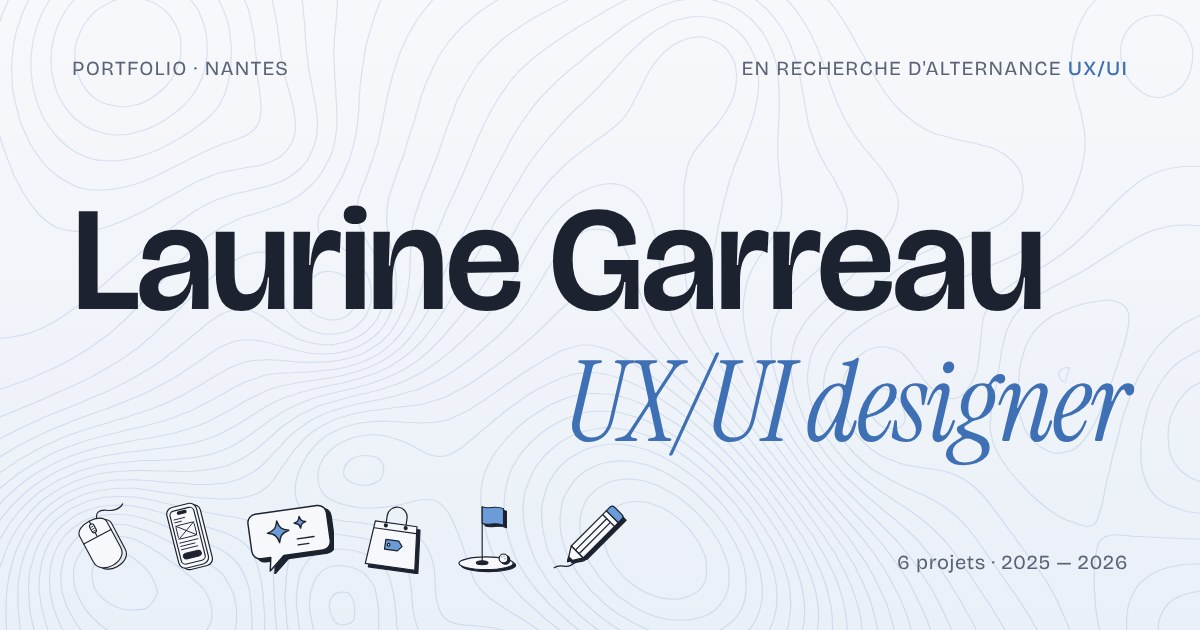
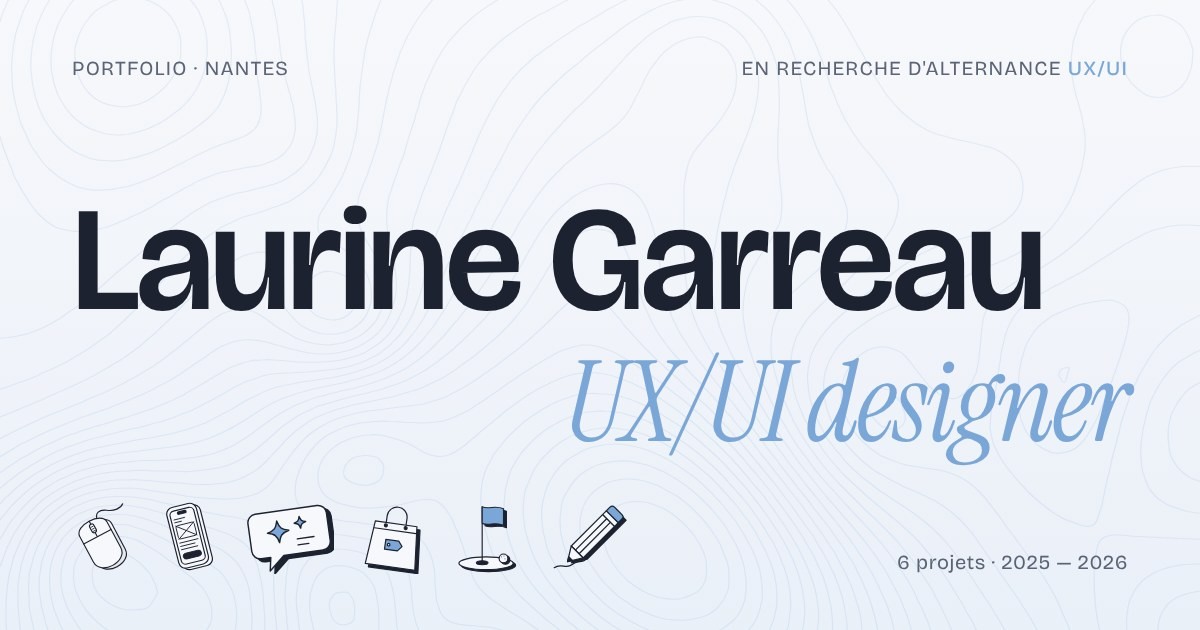
Couleur : le site reprend le bleu du CV (#7BA7D8) pour les textes, le décor et les pictos
Claude-Session: https://claude.ai/code/session_015gFVjZmMqfLoLEgqRuMVH3

Changed region(s): [[0.4625, 0.573, 0.9558, 0.754], [0.8942, 0.0905, 0.9558, 0.1206]]

diff --git a/index.html b/index.html
@@ -21,7 +21,7 @@
   <link rel="preconnect" href="https://fonts.googleapis.com">
   <link rel="preconnect" href="https://fonts.gstatic.com" crossorigin>
   <link href="https://fonts.googleapis.com/css2?family=Bricolage+Grotesque:opsz,wght@12..96,200..800&family=Instrument+Serif:ital@0;1&display=swap" rel="stylesheet">
-  <link rel="stylesheet" href="assets/css/style.css?v=202611081100">
+  <link rel="stylesheet" href="assets/css/style.css?v=202611081200">
   <!-- Active l'intro avant le premier affichage (évite un flash de la page finale) -->
   <!-- une seule fois par visite : en revenant d'une page projet, l'accueil s'affiche directement -->
   <script>try { if (!matchMedia('(prefers-reduced-motion: reduce)').matches && !sessionStorage.getItem('intro-vue')) document.documentElement.classList.add('intro-on'); } catch (e) {}</script>
@@ -69,8 +69,8 @@
         <!-- Les .perch sont des ancres de largeur nulle : l'objet est posé par-dessus le texte (sur le haut des
              minuscules, dans un blanc ou en bord de mot), sans décaler les lettres. Comme il est dans la ligne,
              il arrive avec elle au chargement. -->
-        <span class="line">La<span class="perch"><a class="deco deco--mouse" href="module-import.html" aria-label="Projet Module d'import"><img class="deco-obj" src="assets/img/deco/souris.svg" alt=""><span class="deco-card" aria-hidden="true"><img src="assets/img/module-cover.webp?v=202611031959" alt="" loading="lazy"><span class="deco-card-txt"><span class="deco-card-name"><span class="deco-card-num">01</span> Module d'import</span><span class="deco-card-go">Stage · ERP agroalimentaire <span class="deco-card-arrow">↗</span></span><span class="deco-card-short">→ découvrir</span></span></span></a></span>urine <br class="br-mob"><span class="perch"><a class="deco deco--ia" href="assistant-metier.html" aria-label="Projet L'assistant métier"><img class="deco-obj" src="assets/img/deco/bulle-ia.svg" alt=""><span class="deco-card" aria-hidden="true"><img src="assets/img/assistant-thumb.webp?v=202611031959" alt="" loading="lazy"><span class="deco-card-txt"><span class="deco-card-name"><span class="deco-card-num">03</span> L'assistant métier</span><span class="deco-card-go">Workshop · IA &amp; Cegedim <span class="deco-card-arrow">↗</span></span><span class="deco-card-short">→ découvrir</span></span></span></a></span>Garrea<span class="perch"><a class="deco deco--golf" href="minigolf.html" aria-label="Projet Mini Golf Party"><img class="deco-obj" src="assets/img/deco/golf.svg" alt=""><span class="deco-card" aria-hidden="true"><img src="assets/img/golf-peek.webp?v=202611051200" alt="" loading="lazy"><span class="deco-card-txt"><span class="deco-card-name"><span class="deco-card-num">05</span> Mini Golf Party</span><span class="deco-card-go">Arduino · Jeu électronique tangible <span class="deco-card-arrow">↗</span></span><span class="deco-card-short">→ découvrir</span></span></span></a></span>u</span>
-        <span class="line line--role"><span class="perch"><a class="deco deco--phone" href="splits.html" aria-label="Projet Splits"><img class="deco-obj" src="assets/img/deco/telephone.svg" alt=""><span class="deco-card" aria-hidden="true"><img src="assets/img/splits-cover.webp?v=202611031959" alt="" loading="lazy"><span class="deco-card-txt"><span class="deco-card-name"><span class="deco-card-num">02</span> Splits</span><span class="deco-card-go">Cas d'étude · App de course <span class="deco-card-arrow">↗</span></span><span class="deco-card-short">→ découvrir</span></span></span></a></span>UX/UI <span class="perch"><a class="deco deco--pencil" href="laboratoire.html" aria-label="Le Laboratoire"><img class="deco-obj" src="assets/img/deco/crayon.svg" alt=""><span class="deco-card" aria-hidden="true"><img src="assets/img/labo-room.webp?v=202611041755" alt="" loading="lazy"><span class="deco-card-txt"><span class="deco-card-name"><span class="deco-card-num">06</span> Le Laboratoire</span><span class="deco-card-go">3D · Illustration · Branding <span class="deco-card-arrow">↗</span></span><span class="deco-card-short">→ découvrir</span></span></span></a></span>desig<span class="perch"><a class="deco deco--bag" href="decathlon.html" aria-label="Projet Decathlon Paridis"><img class="deco-obj" src="assets/img/deco/sac.svg" alt=""><span class="deco-card" aria-hidden="true"><img src="assets/img/deca-peek.webp?v=202611041839" alt="" loading="lazy"><span class="deco-card-txt"><span class="deco-card-name"><span class="deco-card-num">04</span> Decathlon Paridis</span><span class="deco-card-go">Workshop · UX guérilla en magasin <span class="deco-card-arrow">↗</span></span><span class="deco-card-short">→ découvrir</span></span></span></a></span>ner</span>
+        <span class="line">La<span class="perch"><a class="deco deco--mouse" href="module-import.html" aria-label="Projet Module d'import"><img class="deco-obj" src="assets/img/deco/souris.svg?v=2" alt=""><span class="deco-card" aria-hidden="true"><img src="assets/img/module-cover.webp?v=202611031959" alt="" loading="lazy"><span class="deco-card-txt"><span class="deco-card-name"><span class="deco-card-num">01</span> Module d'import</span><span class="deco-card-go">Stage · ERP agroalimentaire <span class="deco-card-arrow">↗</span></span><span class="deco-card-short">→ découvrir</span></span></span></a></span>urine <br class="br-mob"><span class="perch"><a class="deco deco--ia" href="assistant-metier.html" aria-label="Projet L'assistant métier"><img class="deco-obj" src="assets/img/deco/bulle-ia.svg?v=2" alt=""><span class="deco-card" aria-hidden="true"><img src="assets/img/assistant-thumb.webp?v=202611031959" alt="" loading="lazy"><span class="deco-card-txt"><span class="deco-card-name"><span class="deco-card-num">03</span> L'assistant métier</span><span class="deco-card-go">Workshop · IA &amp; Cegedim <span class="deco-card-arrow">↗</span></span><span class="deco-card-short">→ découvrir</span></span></span></a></span>Garrea<span class="perch"><a class="deco deco--golf" href="minigolf.html" aria-label="Projet Mini Golf Party"><img class="deco-obj" src="assets/img/deco/golf.svg?v=2" alt=""><span class="deco-card" aria-hidden="true"><img src="assets/img/golf-peek.webp?v=202611051200" alt="" loading="lazy"><span class="deco-card-txt"><span class="deco-card-name"><span class="deco-card-num">05</span> Mini Golf Party</span><span class="deco-card-go">Arduino · Jeu électronique tangible <span class="deco-card-arrow">↗</span></span><span class="deco-card-short">→ découvrir</span></span></span></a></span>u</span>
+        <span class="line line--role"><span class="perch"><a class="deco deco--phone" href="splits.html" aria-label="Projet Splits"><img class="deco-obj" src="assets/img/deco/telephone.svg?v=2" alt=""><span class="deco-card" aria-hidden="true"><img src="assets/img/splits-cover.webp?v=202611031959" alt="" loading="lazy"><span class="deco-card-txt"><span class="deco-card-name"><span class="deco-card-num">02</span> Splits</span><span class="deco-card-go">Cas d'étude · App de course <span class="deco-card-arrow">↗</span></span><span class="deco-card-short">→ découvrir</span></span></span></a></span>UX/UI <span class="perch"><a class="deco deco--pencil" href="laboratoire.html" aria-label="Le Laboratoire"><img class="deco-obj" src="assets/img/deco/crayon.svg?v=2" alt=""><span class="deco-card" aria-hidden="true"><img src="assets/img/labo-room.webp?v=202611041755" alt="" loading="lazy"><span class="deco-card-txt"><span class="deco-card-name"><span class="deco-card-num">06</span> Le Laboratoire</span><span class="deco-card-go">3D · Illustration · Branding <span class="deco-card-arrow">↗</span></span><span class="deco-card-short">→ découvrir</span></span></span></a></span>desig<span class="perch"><a class="deco deco--bag" href="decathlon.html" aria-label="Projet Decathlon Paridis"><img class="deco-obj" src="assets/img/deco/sac.svg?v=2" alt=""><span class="deco-card" aria-hidden="true"><img src="assets/img/deca-peek.webp?v=202611041839" alt="" loading="lazy"><span class="deco-card-txt"><span class="deco-card-name"><span class="deco-card-num">04</span> Decathlon Paridis</span><span class="deco-card-go">Workshop · UX guérilla en magasin <span class="deco-card-arrow">↗</span></span><span class="deco-card-short">→ découvrir</span></span></span></a></span>ner</span>
       </h1>
       <div class="hero-meta">
         <p>Étudiante à l'École de design Nantes Atlantique, je conçois des interfaces qui cherchent l'équilibre entre <strong>esthétique</strong>, <strong>lisibilité</strong> et <strong>usage</strong>, avec un soin particulier porté aux détails.</p>

diff --git a/assets/css/style.css b/assets/css/style.css
@@ -11,8 +11,8 @@
   --line: rgba(28, 34, 48, .14);
   --white: #ffffff;
 
-  --accent: #6b9bd8;        /* bleu du CV : décor, puces, soulignés */
-  --accent-strong: #3f6fb5; /* même bleu, plus profond : textes et icônes */
+  --accent: #7ba7d8;        /* bleu du CV : décor, puces, soulignés */
+  --accent-strong: #7ba7d8; /* le même bleu du CV pour les textes et icônes */
   --accent-soft: #dce8f7;   /* fonds teintés */
 
   --radius: 22px;
@@ -559,7 +559,7 @@ p strong, li strong { font-weight: 700; }
 .ill--curious .bulb { stroke-dasharray: 150; stroke-dashoffset: 150; animation: ill-draw .9s var(--ease) forwards, ill-glow 2s .9s ease-in-out infinite alternate; }
 .ill--curious .bulb-base { stroke: var(--ink-soft); }
 .ill--curious .rays { opacity: 0; animation: ill-rays 2s .9s ease-in-out infinite alternate; }
-@keyframes ill-glow { to { fill: rgba(107, 155, 216, .22); } }
+@keyframes ill-glow { to { fill: rgba(123, 167, 216, .22); } }
 @keyframes ill-rays { from { opacity: 0; transform: scale(.85); } to { opacity: 1; transform: scale(1.05); } }
 /* rigueur : les cases se cochent une à une */
 .ill--rigor .box, .ill--rigor .line { stroke: var(--ink-soft); }

diff --git a/assistant-metier.html b/assistant-metier.html
@@ -18,7 +18,7 @@
   <link rel="preconnect" href="https://fonts.googleapis.com">
   <link rel="preconnect" href="https://fonts.gstatic.com" crossorigin>
   <link href="https://fonts.googleapis.com/css2?family=Bricolage+Grotesque:opsz,wght@12..96,200..800&family=Instrument+Serif:ital@0;1&display=swap" rel="stylesheet">
-  <link rel="stylesheet" href="assets/css/style.css?v=202611081100">
+  <link rel="stylesheet" href="assets/css/style.css?v=202611081200">
 </head>
 <body>
 

diff --git a/decathlon.html b/decathlon.html
@@ -18,7 +18,7 @@
   <link rel="preconnect" href="https://fonts.googleapis.com">
   <link rel="preconnect" href="https://fonts.gstatic.com" crossorigin>
   <link href="https://fonts.googleapis.com/css2?family=Bricolage+Grotesque:opsz,wght@12..96,200..800&family=Instrument+Serif:ital@0;1&display=swap" rel="stylesheet">
-  <link rel="stylesheet" href="assets/css/style.css?v=202611081100">
+  <link rel="stylesheet" href="assets/css/style.css?v=202611081200">
 </head>
 <body>
 

diff --git a/laboratoire.html b/laboratoire.html
@@ -18,7 +18,7 @@
   <link rel="preconnect" href="https://fonts.googleapis.com">
   <link rel="preconnect" href="https://fonts.gstatic.com" crossorigin>
   <link href="https://fonts.googleapis.com/css2?family=Bricolage+Grotesque:opsz,wght@12..96,200..800&family=Instrument+Serif:ital@0;1&display=swap" rel="stylesheet">
-  <link rel="stylesheet" href="assets/css/style.css?v=202611081100">
+  <link rel="stylesheet" href="assets/css/style.css?v=202611081200">
 </head>
 <body>
 

diff --git a/minigolf.html b/minigolf.html
@@ -18,7 +18,7 @@
   <link rel="preconnect" href="https://fonts.googleapis.com">
   <link rel="preconnect" href="https://fonts.gstatic.com" crossorigin>
   <link href="https://fonts.googleapis.com/css2?family=Bricolage+Grotesque:opsz,wght@12..96,200..800&family=Instrument+Serif:ital@0;1&display=swap" rel="stylesheet">
-  <link rel="stylesheet" href="assets/css/style.css?v=202611081100">
+  <link rel="stylesheet" href="assets/css/style.css?v=202611081200">
 </head>
 <body>
 

diff --git a/module-import.html b/module-import.html
@@ -18,7 +18,7 @@
   <link rel="preconnect" href="https://fonts.googleapis.com">
   <link rel="preconnect" href="https://fonts.gstatic.com" crossorigin>
   <link href="https://fonts.googleapis.com/css2?family=Bricolage+Grotesque:opsz,wght@12..96,200..800&family=Instrument+Serif:ital@0;1&display=swap" rel="stylesheet">
-  <link rel="stylesheet" href="assets/css/style.css?v=202611081100">
+  <link rel="stylesheet" href="assets/css/style.css?v=202611081200">
 </head>
 <body>
 

diff --git a/splits.html b/splits.html
@@ -18,7 +18,7 @@
   <link rel="preconnect" href="https://fonts.googleapis.com">
   <link rel="preconnect" href="https://fonts.gstatic.com" crossorigin>
   <link href="https://fonts.googleapis.com/css2?family=Bricolage+Grotesque:opsz,wght@12..96,200..800&family=Instrument+Serif:ital@0;1&display=swap" rel="stylesheet">
-  <link rel="stylesheet" href="assets/css/style.css?v=202611081100">
+  <link rel="stylesheet" href="assets/css/style.css?v=202611081200">
 </head>
 <body>
 
